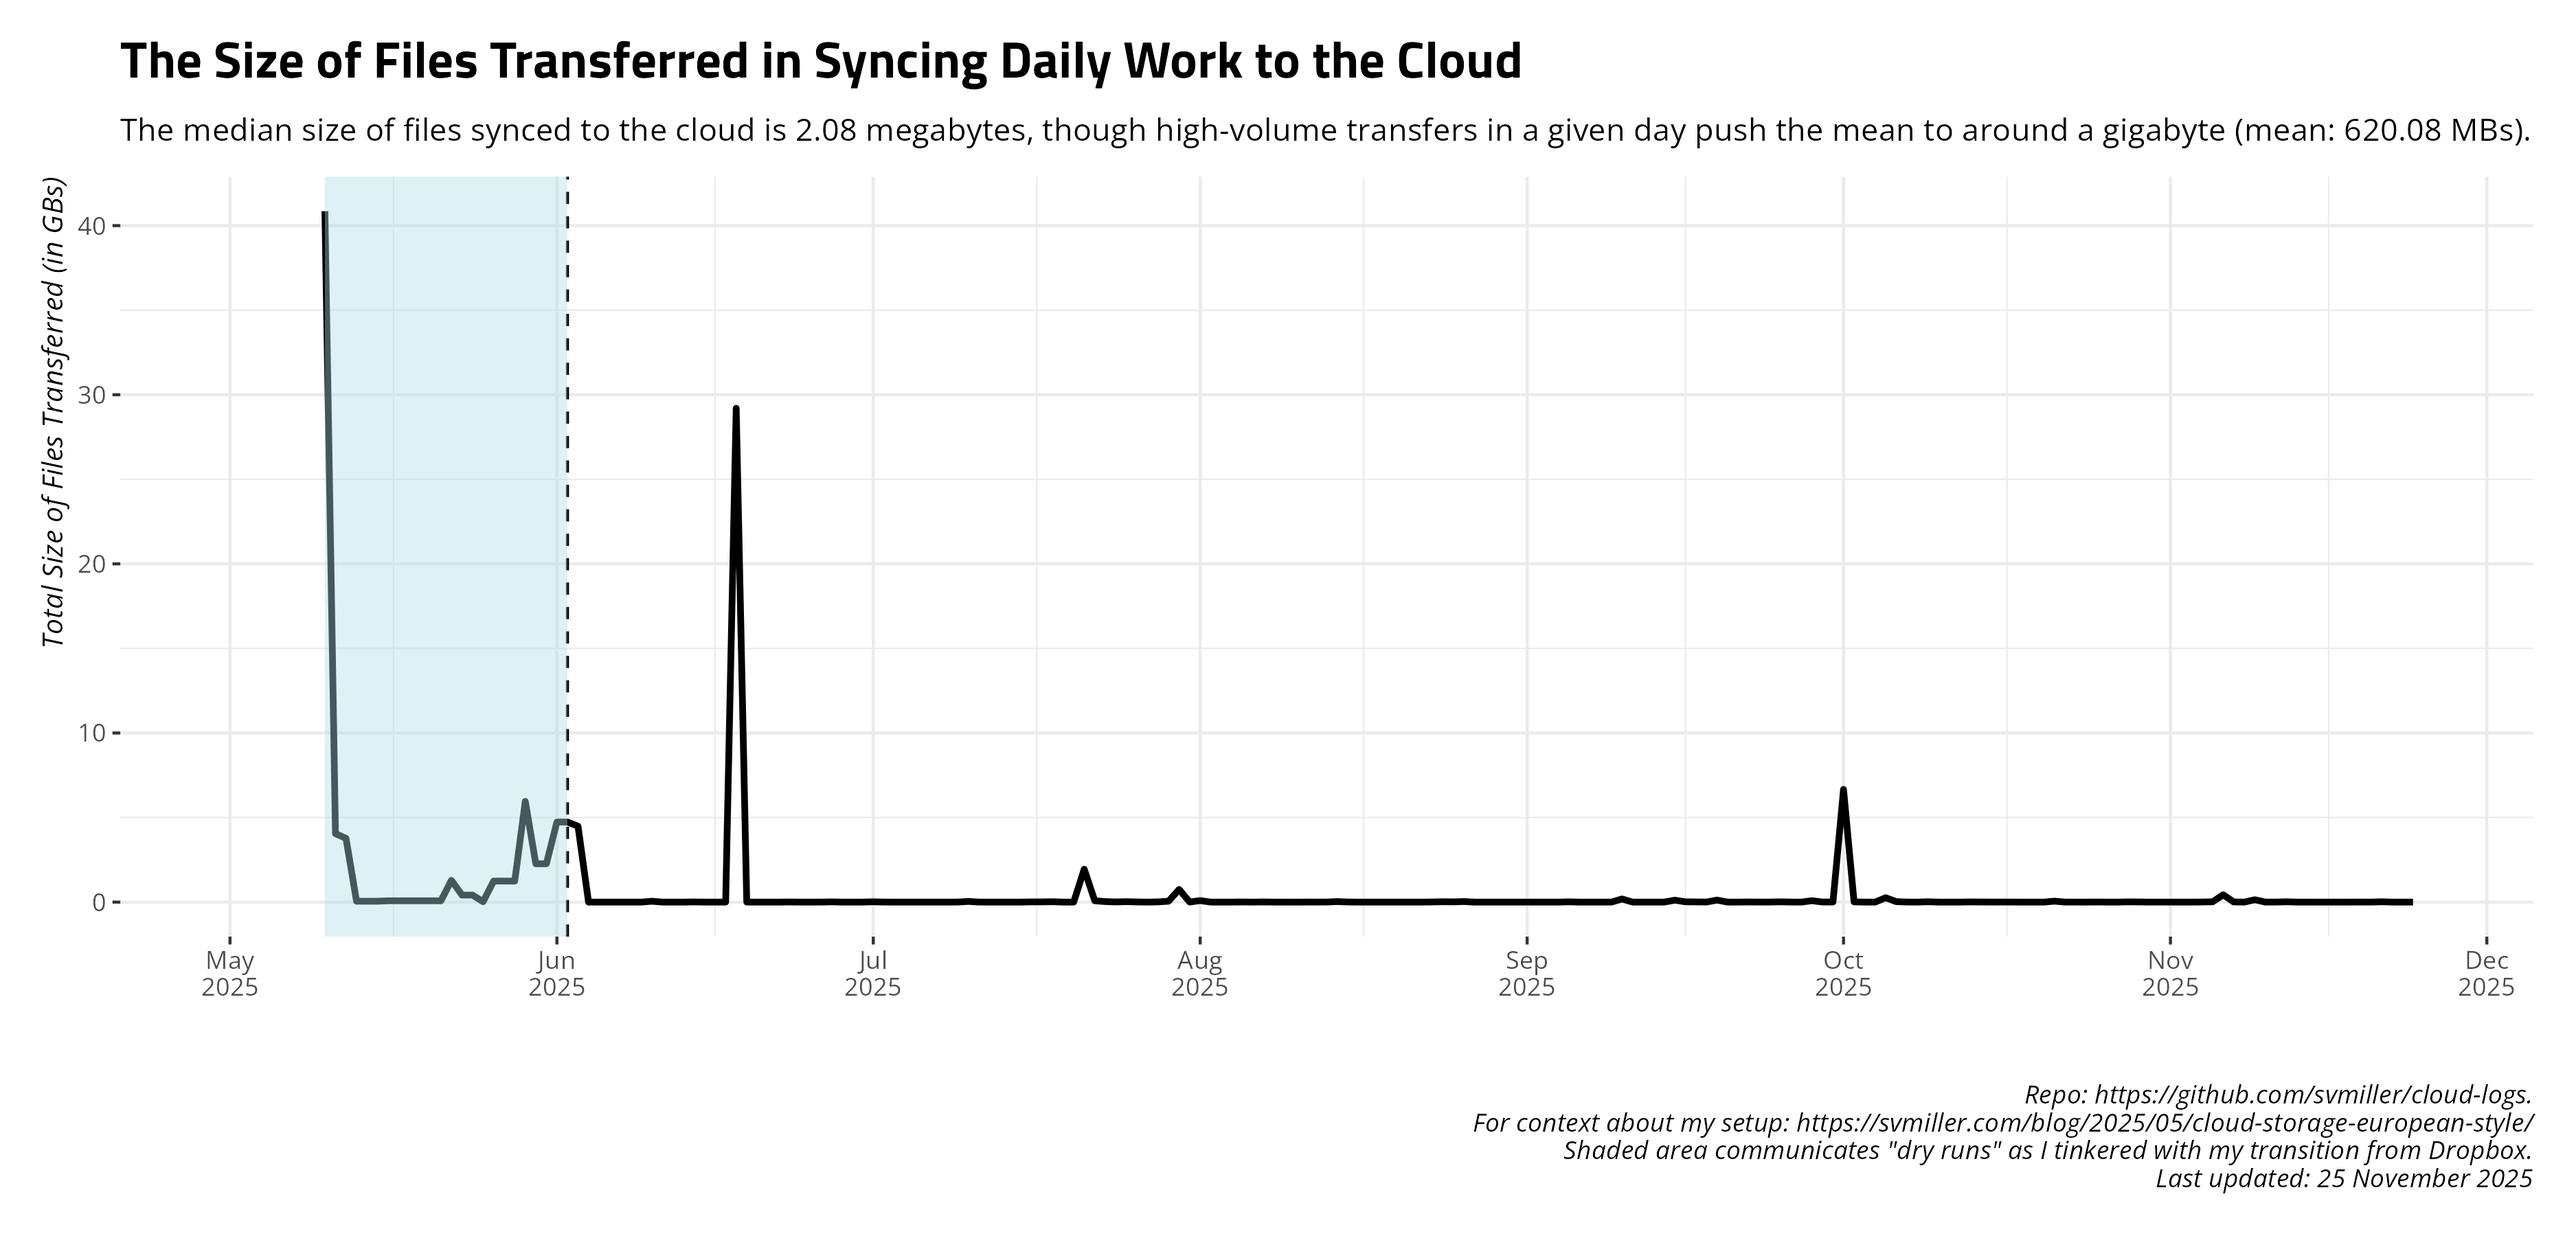
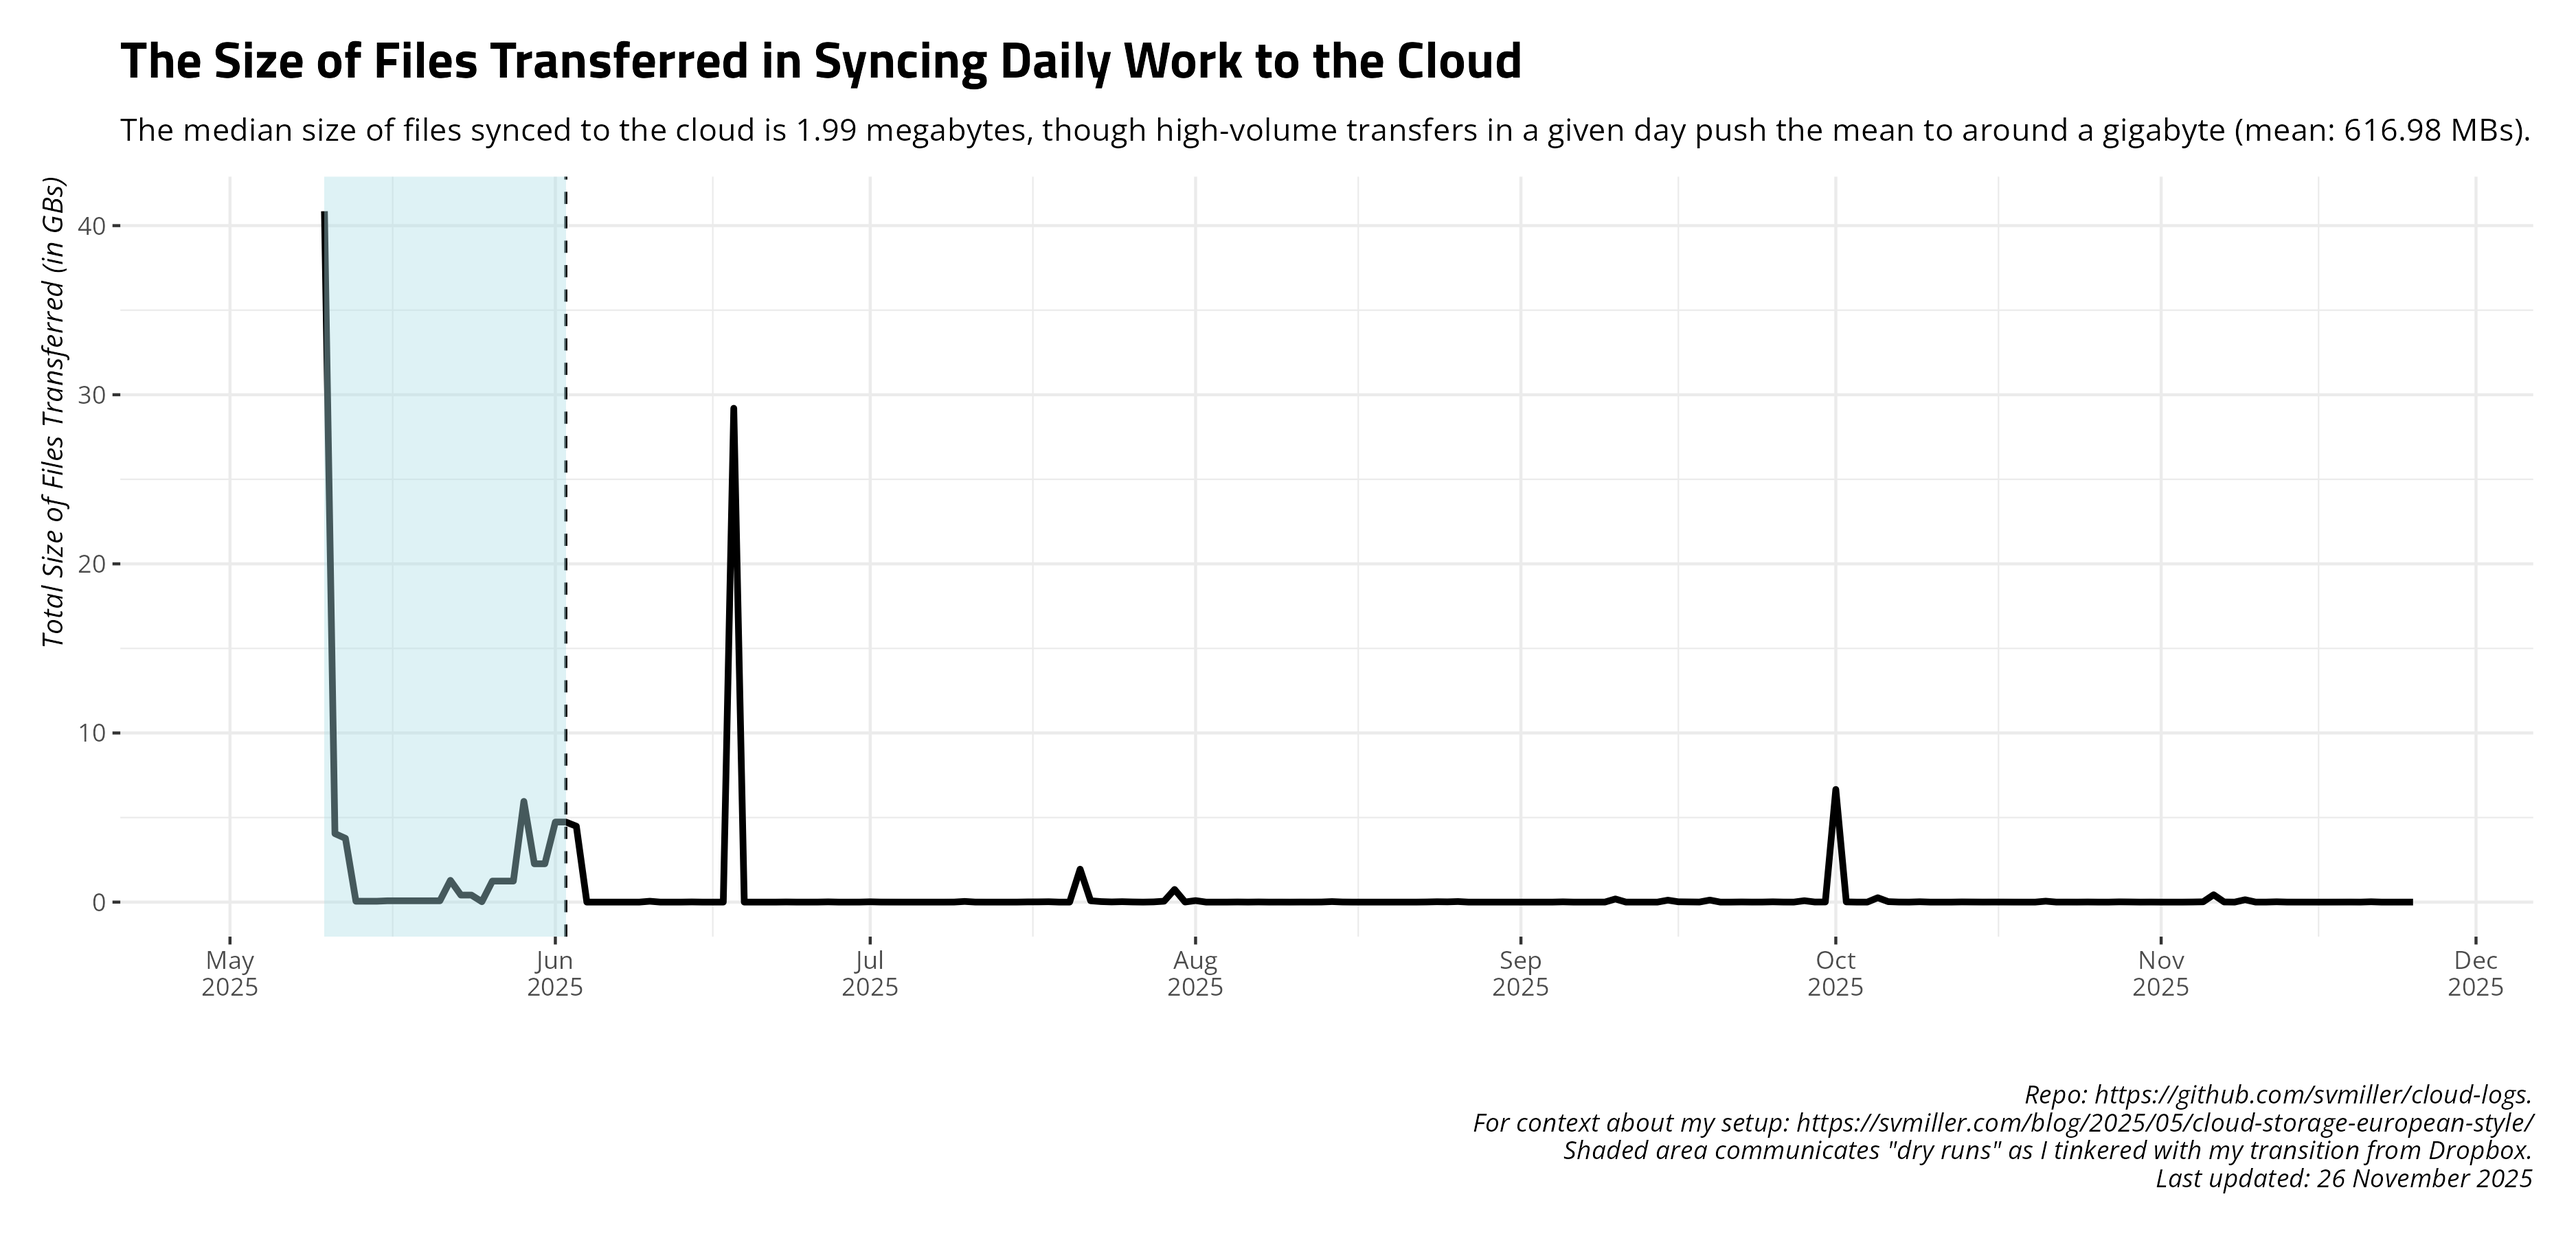
Date: 2025-11-26 09:00:17. Hi mom!

diff --git a/README.md b/README.md
@@ -27,17 +27,17 @@ and uploads to Github.
     #> # A tibble: 14 × 4
     #>    date       ftransfer stransfer   elapsed
     #>    <date>         <dbl> <chr>       <chr>  
-    #>  1 2025-11-11        81 1.673 MiB   5m1.9s 
-    #>  2 2025-11-12       725 18.854 MiB  5m33.3s
-    #>  3 2025-11-13         2 1.737 MiB   7m23.6s
-    #>  4 2025-11-14        95 1.137 MiB   4m44.7s
-    #>  5 2025-11-15        37 820.913 KiB 4m56.9s
-    #>  6 2025-11-16         0 <NA>        4m59.2s
-    #>  7 2025-11-17        32 359.220 KiB 4m54.7s
-    #>  8 2025-11-18         4 1.671 MiB   4m58.9s
-    #>  9 2025-11-19        12 3.454 MiB   4m58.5s
-    #> 10 2025-11-20         5 289.079 KiB 4m51.0s
-    #> 11 2025-11-21        96 19.696 MiB  4m13.3s
-    #> 12 2025-11-22         0 <NA>        4m57.3s
-    #> 13 2025-11-23         0 <NA>        4m58.4s
-    #> 14 2025-11-24         9 381.388 KiB 4m58.9s
+    #>  1 2025-11-12       725 18.854 MiB  5m33.3s
+    #>  2 2025-11-13         2 1.737 MiB   7m23.6s
+    #>  3 2025-11-14        95 1.137 MiB   4m44.7s
+    #>  4 2025-11-15        37 820.913 KiB 4m56.9s
+    #>  5 2025-11-16         0 <NA>        4m59.2s
+    #>  6 2025-11-17        32 359.220 KiB 4m54.7s
+    #>  7 2025-11-18         4 1.671 MiB   4m58.9s
+    #>  8 2025-11-19        12 3.454 MiB   4m58.5s
+    #>  9 2025-11-20         5 289.079 KiB 4m51.0s
+    #> 10 2025-11-21        96 19.696 MiB  4m13.3s
+    #> 11 2025-11-22         0 <NA>        4m57.3s
+    #> 12 2025-11-23         0 <NA>        4m58.4s
+    #> 13 2025-11-24         9 381.388 KiB 4m58.9s
+    #> 14 2025-11-25        46 877.675 KiB 4m57.2s
